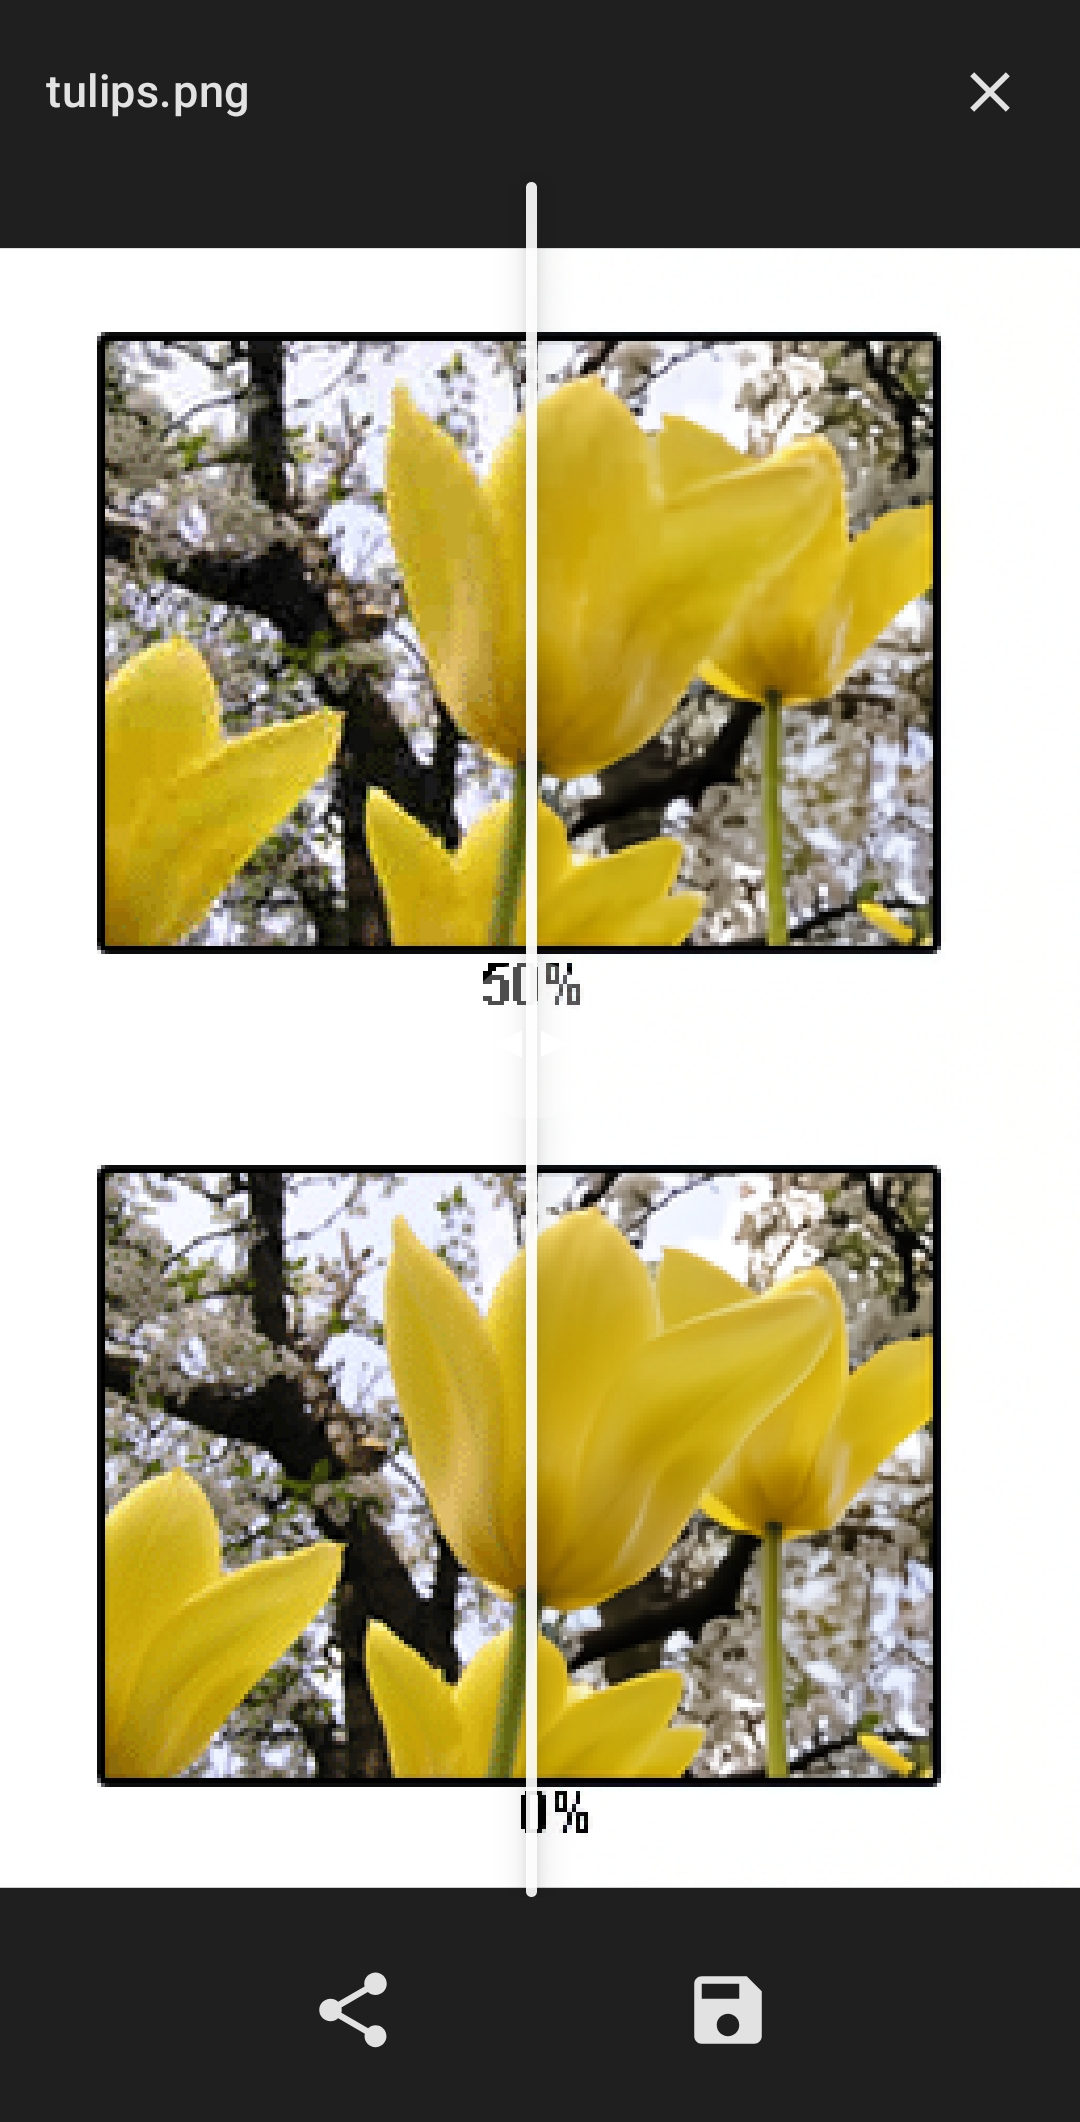
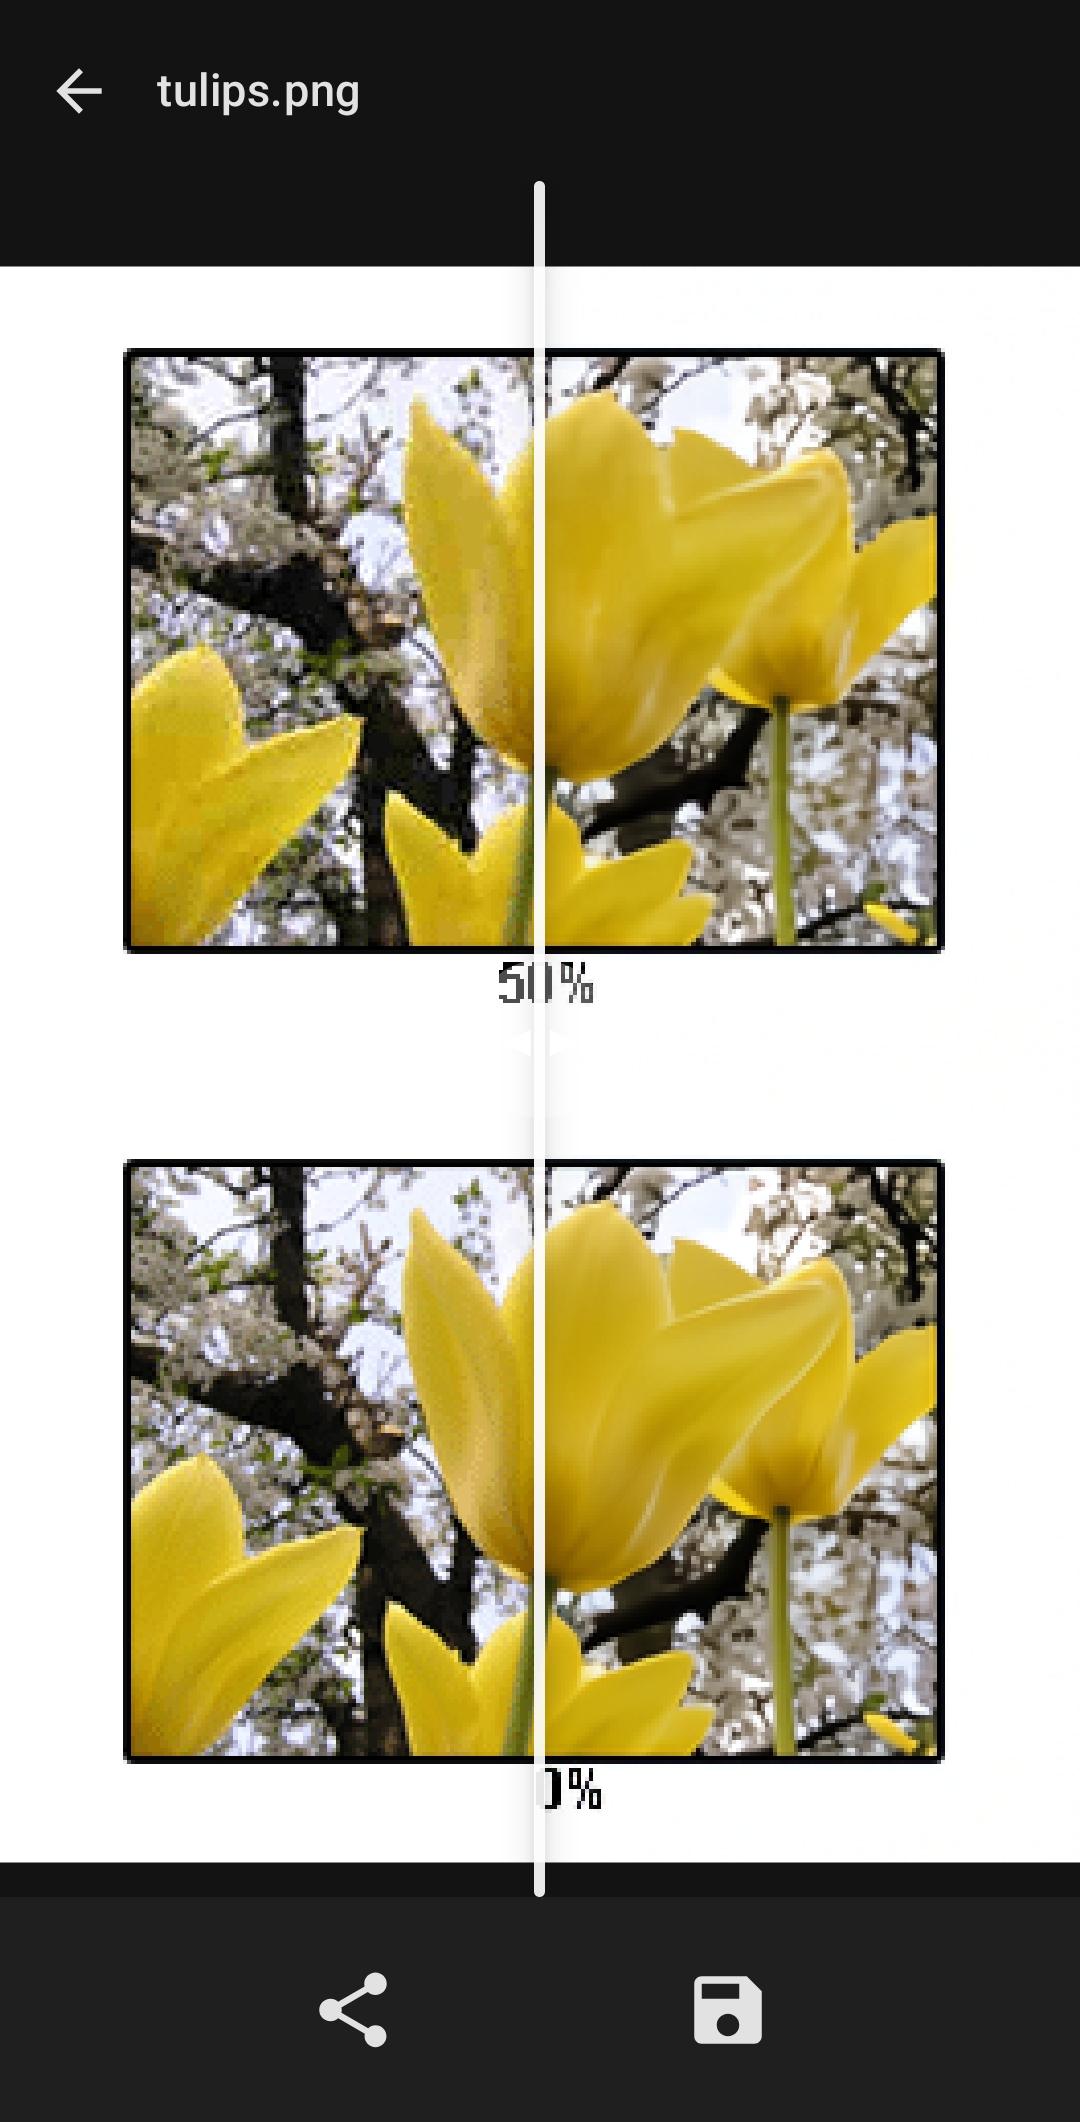
minor fixes and screenshot update

diff --git a/app/src/main/java/com/je/dejpeg/compose/ui/screens/ProcessingScreen.kt b/app/src/main/java/com/je/dejpeg/compose/ui/screens/ProcessingScreen.kt
@@ -142,7 +142,11 @@ fun ProcessingScreen(viewModel: ProcessingViewModel, navController: NavControlle
             LazyColumn(Modifier.weight(1f).fillMaxWidth(), verticalArrangement = Arrangement.spacedBy(8.dp)) {
                 items(images, key = { it.id }) { image ->
                     val swipeState = remember { mutableStateOf(0f) }
-                    SwipeToDismissWrapper(swipeOffset = swipeState, onDismissed = { handleImageRemoval(image.id) }) {
+                    SwipeToDismissWrapper(
+                        swipeOffset = swipeState,
+                        isProcessing = image.isProcessing, // pass isProcessing
+                        onDismissed = { handleImageRemoval(image.id) }
+                    ) {
                         ImageCard(
                             image = image,
                             supportsStrength = supportsStrength,
@@ -273,7 +277,7 @@ fun ProcessingScreen(viewModel: ProcessingViewModel, navController: NavControlle
 }
 
 @Composable
-fun SwipeToDismissWrapper(swipeOffset: MutableState<Float>, onDismissed: () -> Unit, content: @Composable () -> Unit) {
+fun SwipeToDismissWrapper(swipeOffset: MutableState<Float>, isProcessing: Boolean, onDismissed: () -> Unit, content: @Composable () -> Unit) {
     val scope = rememberCoroutineScope()
     val animatedOffset by animateFloatAsState(swipeOffset.value, label = "swipe")
     var widthPx by remember { mutableIntStateOf(0) }
@@ -281,22 +285,12 @@ fun SwipeToDismissWrapper(swipeOffset: MutableState<Float>, onDismissed: () -> U
     val haptic = com.je.dejpeg.ui.utils.rememberHapticFeedback()
     var hasStartedDrag by remember { mutableStateOf(false) }
     var hasReachedThreshold by remember { mutableStateOf(false) }
-    
     Box(Modifier.fillMaxWidth().height(80.dp).onSizeChanged { widthPx = it.width }) {
-        if (animatedOffset > 0f) Box(Modifier.width((animatedOffset / density).dp).height(80.dp).clip(RoundedCornerShape(12.dp)).background(Color(0xFFEF5350)), Alignment.Center) { Icon(Icons.Filled.Delete, "Delete", Modifier.size(28.dp), Color.White) }
+        if (animatedOffset > 0f) Box(Modifier.width((animatedOffset / density).dp).height(80.dp).clip(RoundedCornerShape(12.dp)).background(Color(0xFFEF5350)), Alignment.Center) {
+            Icon(if (isProcessing) Icons.Filled.Close else Icons.Filled.Delete, if (isProcessing) "Cancel" else "Delete", Modifier.size(28.dp), Color.White)
+        }
         Box(Modifier.fillMaxWidth().height(80.dp).offset { IntOffset(animatedOffset.roundToInt(), 0) }.pointerInput(Unit) {
-            detectHorizontalDragGestures(
-                onDragStart = { if (!hasStartedDrag) { haptic.gestureStart(); hasStartedDrag = true } },
-                onHorizontalDrag = { _, dragAmount -> 
-                    swipeOffset.value = max(0f, swipeOffset.value + dragAmount)
-                    if (widthPx > 0 && swipeOffset.value > widthPx * 0.35f && !hasReachedThreshold) { haptic.medium(); hasReachedThreshold = true }
-                    else if (swipeOffset.value <= widthPx * 0.35f) hasReachedThreshold = false
-                },
-                onDragEnd = { 
-                    if (widthPx > 0 && swipeOffset.value > widthPx * 0.35f) { haptic.heavy(); onDismissed() }
-                    scope.launch { swipeOffset.value = 0f; hasStartedDrag = false; hasReachedThreshold = false }
-                }
-            )
+            detectHorizontalDragGestures(onDragStart = { if (!hasStartedDrag) { haptic.gestureStart(); hasStartedDrag = true } }, onHorizontalDrag = { _, dragAmount -> swipeOffset.value = max(0f, swipeOffset.value + dragAmount); if (widthPx > 0 && swipeOffset.value > widthPx * 0.35f && !hasReachedThreshold) { haptic.medium(); hasReachedThreshold = true } else if (swipeOffset.value <= widthPx * 0.35f) hasReachedThreshold = false }, onDragEnd = { if (widthPx > 0 && swipeOffset.value > widthPx * 0.35f) { haptic.heavy(); onDismissed() }; scope.launch { swipeOffset.value = 0f; hasStartedDrag = false; hasReachedThreshold = false } })
         }) { content() }
     }
 }
@@ -362,7 +356,7 @@ fun ImageCard(image: ImageItem, supportsStrength: Boolean, onStrengthChange: (Fl
                     }
                 } else if (image.outputBitmap != null) {
                     Spacer(modifier = Modifier.height(2.dp))
-                    Text(text = "Complete", style = MaterialTheme.typography.bodySmall, color = MaterialTheme.colorScheme.primary, fontWeight = FontWeight.Medium, fontSize = 11.sp)
+                    Text(text = stringResource(R.string.status_complete_ui), style = MaterialTheme.typography.bodySmall, color = MaterialTheme.colorScheme.primary, fontWeight = FontWeight.Medium, fontSize = 11.sp)
                 }
             }
             Column(modifier = Modifier.align(Alignment.CenterVertically), verticalArrangement = Arrangement.spacedBy(4.dp), horizontalAlignment = Alignment.CenterHorizontally) {

diff --git a/app/src/main/java/com/je/dejpeg/compose/ui/screens/BeforeAfterScreen.kt b/app/src/main/java/com/je/dejpeg/compose/ui/screens/BeforeAfterScreen.kt
@@ -96,21 +96,31 @@ fun BeforeAfterScreen(viewModel: ProcessingViewModel, imageId: String, navContro
         },
         bottomBar = {
             if (afterBitmap != null) {
-                Surface(color = MaterialTheme.colorScheme.surfaceContainer, modifier = Modifier.fillMaxWidth()) {
-                    Row(Modifier.fillMaxWidth().padding(top = 8.dp, bottom = 16.dp, start = 16.dp, end = 16.dp)
-                        .navigationBarsPadding(), Arrangement.SpaceEvenly) {
-                        IconButton(onClick = { haptic.light(); ImageActions.shareImage(context, afterBitmap) }) {
-                            Icon(Icons.Filled.Share, "Share", modifier = Modifier.size(32.dp))
-                        }
-                        IconButton(onClick = {
-                            haptic.medium()
-                            val skip = context.getSharedPreferences("AppPrefs", Context.MODE_PRIVATE).getBoolean("skipSaveDialog", false)
-                            if (skip) viewModel.saveImage(context, imageId) else showSaveDialog = true
-                        }) {
-                            Icon(Icons.Filled.Save, "Save", modifier = Modifier.size(32.dp))
-                        }
-                    }
+            Surface(color = MaterialTheme.colorScheme.surfaceContainer, modifier = Modifier.fillMaxWidth()) {
+                Row(
+                Modifier
+                    .fillMaxWidth()
+                    .padding(
+                    top = 8.dp + with(LocalDensity.current) { 22f.toDp() },
+                    bottom = 16.dp,
+                    start = 16.dp,
+                    end = 16.dp
+                    )
+                    .navigationBarsPadding(),
+                Arrangement.SpaceEvenly
+                ) {
+                IconButton(onClick = { haptic.light(); ImageActions.shareImage(context, afterBitmap) }) {
+                    Icon(Icons.Filled.Share, "Share", modifier = Modifier.size(32.dp))
                 }
+                IconButton(onClick = {
+                    haptic.medium()
+                    val skip = context.getSharedPreferences("AppPrefs", Context.MODE_PRIVATE).getBoolean("skipSaveDialog", false)
+                    if (skip) viewModel.saveImage(context, imageId) else showSaveDialog = true
+                }) {
+                    Icon(Icons.Filled.Save, "Save", modifier = Modifier.size(32.dp))
+                }
+                }
+            }
             }
         }
     ) { paddingValues ->
@@ -149,7 +159,6 @@ private fun SliderView(
             .onGloballyPositioned { containerSize = it.size },
         Alignment.Center
     ) {
-        // Before image (left side)
         Box(
             Modifier
                 .fillMaxSize()
@@ -174,8 +183,6 @@ private fun SliderView(
                 )
             }
         }
-        
-        // After image (right side)
         Box(
             Modifier
                 .fillMaxSize()
@@ -200,12 +207,9 @@ private fun SliderView(
                 )
             }
         }
-        
-        // Slider handle
         if (containerSize.width > 0) {
             val sliderX = containerSize.width * sliderPosition
             Box(Modifier.fillMaxSize()) {
-                // Slider line
                 Box(
                     Modifier
                         .fillMaxHeight()
@@ -226,8 +230,6 @@ private fun SliderView(
                             androidx.compose.foundation.shape.RoundedCornerShape(2.dp)
                         )
                 )
-                
-                // Drag handle
                 Box(
                     Modifier
                         .fillMaxHeight()
@@ -246,7 +248,6 @@ private fun SliderView(
                                     sliderPosition = (sliderPosition + dragAmount.x / containerSize.width)
                                         .coerceIn(0f, 1f)
                                     
-                                    // Haptic feedback when crossing center
                                     if (!hasDraggedToCenter && sliderPosition >= 0.48f && sliderPosition <= 0.52f) {
                                         haptic.light()
                                         hasDraggedToCenter = true

diff --git a/app/src/main/java/com/je/dejpeg/compose/ui/screens/SettingsScreen.kt b/app/src/main/java/com/je/dejpeg/compose/ui/screens/SettingsScreen.kt
@@ -205,6 +205,7 @@ data class FAQSectionData(
 
 @Composable fun ModelDialog(models: List<String>, active: String?, viewModel: ProcessingViewModel, onSelect: (String) -> Unit, onImport: () -> Unit, onDelete: () -> Unit, onDownload: () -> Unit, onDismiss: () -> Unit) {
     val haptic = com.je.dejpeg.ui.utils.rememberHapticFeedback()
+    val context = LocalContext.current
     AlertDialog(onDismissRequest = onDismiss, title = { Text(stringResource(R.string.model_management)) },
         text = {
             Column {
@@ -222,7 +223,9 @@ data class FAQSectionData(
                             }
                             if (name == active) Text(stringResource(R.string.active), style = MaterialTheme.typography.bodySmall, color = MaterialTheme.colorScheme.primary)
                             if (warning != null) {
-                                Text(warning.title, style = MaterialTheme.typography.bodySmall, color = MaterialTheme.colorScheme.error)
+                                val warningTitleId = context.resources.getIdentifier(warning.title, "string", context.packageName)
+                                val warningTitle = if (warningTitleId != 0) stringResource(warningTitleId) else warning.title
+                                Text(warningTitle, style = MaterialTheme.typography.bodySmall, color = MaterialTheme.colorScheme.error)
                             }
                         }
                         RadioButton(selected = name == active, onClick = { haptic.medium(); onSelect(name) })

diff --git a/app/src/main/assets/faq/what_is_this.md b/app/src/main/assets/faq/what_is_this.md
@@ -1,4 +1,4 @@
-## what is this app for?
+## What is this app for?
 
 This app is designed to remove image compression, noise, or other unpleasant artifacts
 

diff --git a/app/src/main/assets/faq/which_models.md b/app/src/main/assets/faq/which_models.md
@@ -1,4 +1,4 @@
-## which models to use?
+## Which models to use?
 
 ### FBCNN
 
